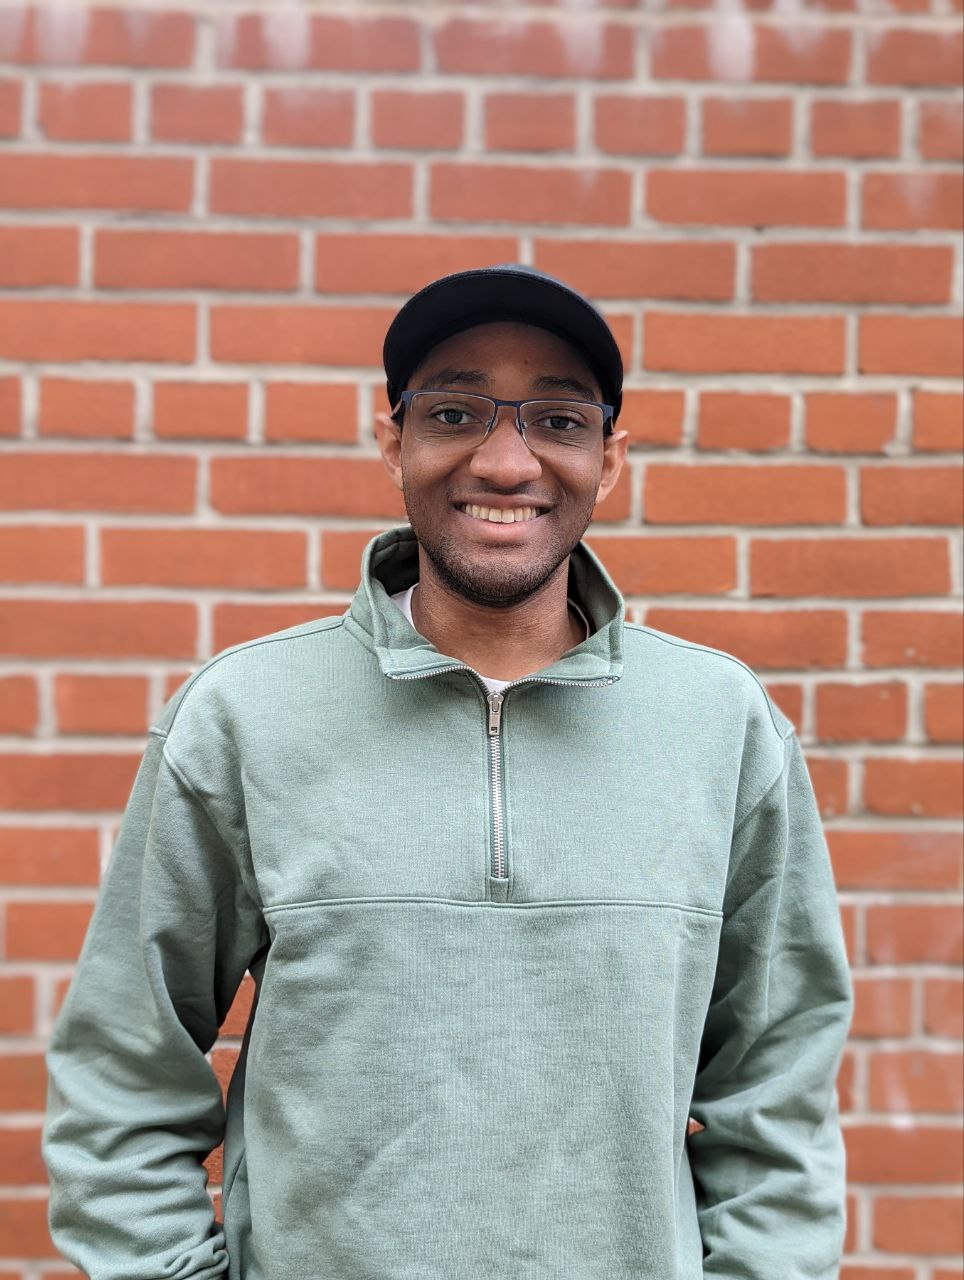
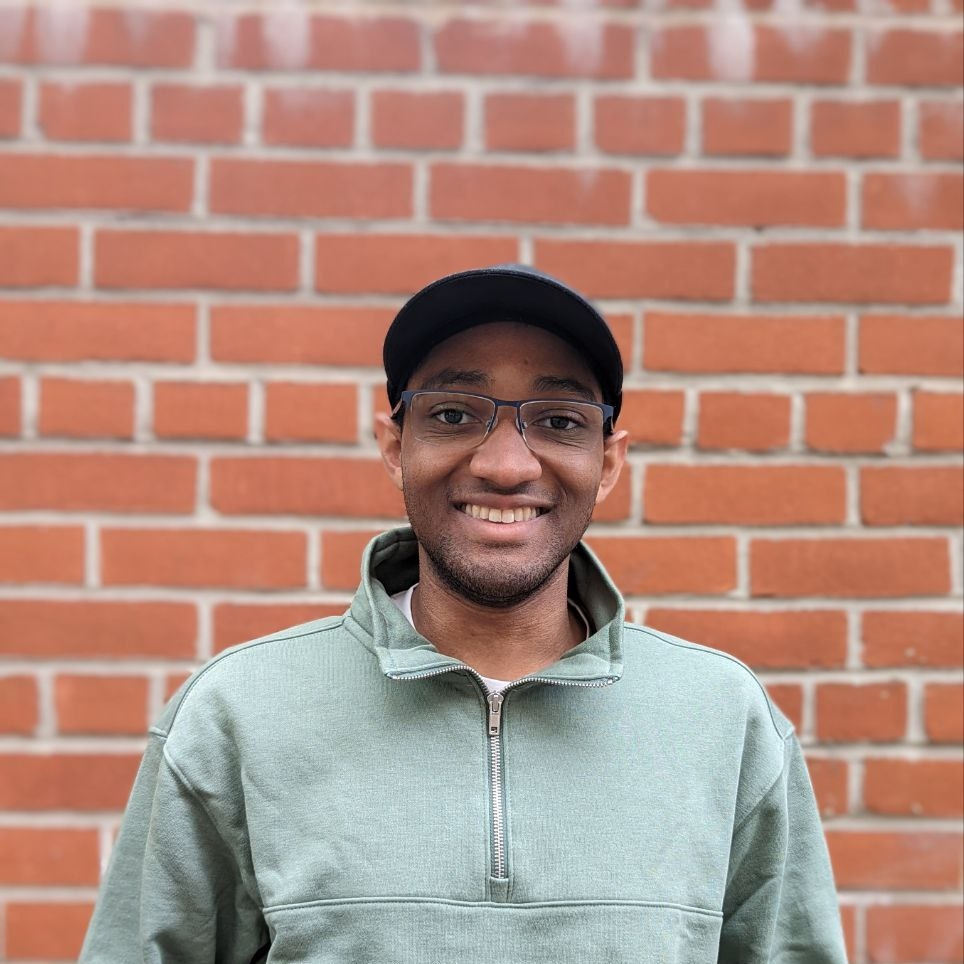
Media queries introduced

diff --git a/src/components/Skills.js b/src/components/Skills.js
@@ -1,18 +1,43 @@
 import React from "react";
 import "./Skills.scss";
+import { FaGithubSquare, FaJava, FaHtml5, 
+  FaCss3Alt, FaAngular, FaReact, 
+  FaFigma, FaTrello, FaSlack, FaNodeJs } from 'react-icons/fa';
+import { IoLogoJavascript } from 'react-icons/io';
+import { SiTypescript, SiAndroidstudio } from 'react-icons/si';
+import { AiOutlineGitlab } from 'react-icons/ai';
+import { DiGit } from 'react-icons/di';
 
 export default function Skills() {
 
-  // Create an array with all the names of the items I want to load
-  // have a pre-text to the whole situation then include the string element
-  // Have it run as a function
-  // E.g. icon-android.svg --> icon-{arr[i]}.svg
-
   return (
     <>
-      <h3>Looking forward to working with</h3>
+      <h3 className="skills__heading">Looking forward to working with</h3>
+      <div className="skills__container">
+        <FaReact className="skills__container__icon" />
+        <SiAndroidstudio className="skills__container__icon" />
+        <FaNodeJs className="skills__container__icon" />
+        <FaJava className="skills__container__icon" />
+      </div>
 
-      <h3>The tools that I am familar with</h3>
+      <h3 className="skills__heading">The tools that I am familar with</h3>
+      <div className="skills__container">
+        <FaJava className="skills__container__icon" aria-label="Java" />
+        <FaHtml5 className="skills__container__icon" aria-label="HTML5" />
+        <FaCss3Alt className="skills__container__icon" aria-label="CSS" />
+        <FaReact className="skills__container__icon" aria-label="React" />
+        <IoLogoJavascript className="skills__container__icon" aria-label="JavaScript" />
+        <SiAndroidstudio className="skills__container__icon" aria-label="Android" />
+        <SiTypescript className="skills__container__icon" aria-label="TypeScript" />
+        <FaNodeJs className="skills__container__icon" aria-label="NodeJS" />
+        <DiGit className="skills__container__icon" aria-label="Git" />
+        <FaFigma className="skills__container__icon" aria-label="Figma" />
+        <FaGithubSquare className="skills__container__icon" aria-label="GitHub" />
+        <AiOutlineGitlab className="skills__container__icon" aria-label="GitLab" />
+        <FaAngular className="skills__container__icon" aria-label="Angular" />
+        <FaSlack className="skills__container__icon" aria-label="Slack" />
+        <FaTrello className="skills__container__icon" aria-label="Trello" />
+      </div>
       
     </>
   );

diff --git a/src/components/Bio.js b/src/components/Bio.js
@@ -1,23 +1,26 @@
 import React from "react";
 import "./Bio.scss";
+import { data } from '../data';
 
 export default function Bio() {
+
+  const img = data[0].imagePath;
+  
   return (
     <>
-      <div className="picture"></div>
-      {/* <img classname="picture" width={350} alt="hello" src={Kevin}/> */}
-      <p className="text">
+      <img src={img} className="bio__picture" />
+      <p className="bio__text">
         I am a mobile and web developer graduate based in London, UK. While
         studying at Kingston University, I worked with Java and Android mobile
         development while learning software development principles.
       </p>
-      <p className="text">
+      <p className="bio__text">
         My most recent experience was as an Intern at Go Jauntly. I helped with
         administrative tasks such as quality assurances and content creation.
         Additionally, I co-developed the front-end for a new part of their
         website using Nunjucks, SCSS and TypeScript.
       </p>
-      <p className="text">
+      <p className="bio__text">
         I am determined to develop my skills further and provide valuable
         solutions to real-life problems.
       </p>

diff --git a/src/data.js b/src/data.js
@@ -1,5 +1,9 @@
 export const data = [
     {
+        "id": "profile",
+        "imagePath": require('./assets/kevin.jpg'),
+    },
+    {
         "id": "opencv",
         "imagePath": require('./assets/opencv4android.png'),
         "title": "OpenCV4Android",
@@ -14,3 +18,8 @@ export const data = [
         "description": "This was an extension to Go Jauntly's main website designed to enhance search engine optimisation. My primary role was to construct the UI based on designs using Nunjucks, SCSS and TypeScript. This project sharpened my skills with Git since multiple people were working on this project. "
     },
 ]
+
+// An array can be created in attribute and then can be called like a normal array
+// So just stack require() in square brackets like below...
+// "imagePath": [require('./assets/opencv4android.png'), require('./assets/mesh.jpg')],
+// props.data.imagePath[i]

diff --git a/src/components/Landing.scss b/src/components/Landing.scss
@@ -19,6 +19,7 @@
             margin: 10px;
             padding-top: 20px;
             margin-top: 0px;
+            font-size: 64px;
         }
 
         &__sub {
@@ -46,7 +47,35 @@
     &__call-to-action {
         text-align: center;
         font-size: x-small;
+
+        &__arrow {
+            width: 30px;
+            height: 30px;
+        }
     }
 
+}
+
+@media only screen and (max-width: 768px) {
+
+    .landing {
+        &__profile {
+            display: flex;
+            padding: 10px;
+            gap: 0px;
+            flex-direction: column;
+
+            &__bio { 
+                width: 100%;
+                display: flex;
+                flex-direction: column;
+                align-items: center;
+            }
+
+            &__skills { 
+                width: 100%;
+            }
+        }
+    }
 }
 

diff --git a/src/components/Projects.js b/src/components/Projects.js
@@ -11,7 +11,10 @@ export default function Projects() {
   // A new array is used to generate a call to Project component with a link to the data
   let projectList = [];
   data.forEach((item) => {
-    projectList.push( <li key={item.id}> <Project imgPath={item.imagePath} data={item} /> </li> );
+    // First element removed because its for landing page
+    if(item != data[0]) {
+      projectList.push( <li key={item.id}> <Project imgPath={item.imagePath} data={item} /> </li> );
+    }
   })
 
   return (

diff --git a/src/components/Landing.js b/src/components/Landing.js
@@ -2,6 +2,7 @@ import React from "react";
 import "./Landing.scss";
 import Bio from "./Bio";
 import Skills from "./Skills";
+import { BsArrowDownCircleFill } from 'react-icons/bs';
 
 export default function landing() {
   return (
@@ -25,6 +26,7 @@ export default function landing() {
 
         <div className="landing__call-to-action">
           <p>Scroll down to see my projects</p>
+          <BsArrowDownCircleFill className="landing__call-to-action__arrow" />
         </div>
       </div>
 

diff --git a/src/components/Bio.scss b/src/components/Bio.scss
@@ -1,15 +1,19 @@
 @import "../variables";
 
-.picture {
-  width: 250px;
-  height: 250px;
-  border-radius: 50%;
-  background: url(../assets/kevin.jpg);
-  background-size: cover;
+
+.bio {
+  &__picture {
+    max-width: 300px;
+    max-height: 300px;
+    display: block;
+    border-radius: 50%;
+    background-size: cover;
+  }
+  
+  &__text {
+    width: 100%;
+    //margin-bottom: 0px;
+    margin: 5px;
+  }
 }
 
-.text {
-  width: 100%;
-  //margin-bottom: 0px;
-  margin: 5px;
-}

diff --git a/src/components/Skills.scss b/src/components/Skills.scss
@@ -1,7 +1,23 @@
 @import '../variables';
 
 .skills {
-    padding: 10px;
-    // background-color: $red;
-    width: 50%;
+
+    &__heading {
+        text-align: center;
+    }
+
+    &__container {
+        display: flex;
+        justify-content: center;
+        flex-wrap: wrap;
+        gap: 10px;
+
+        &__icon {
+            width: 50px;
+            height: 50px;
+            align-items: center;
+        }
+
+    }
+    
 }
